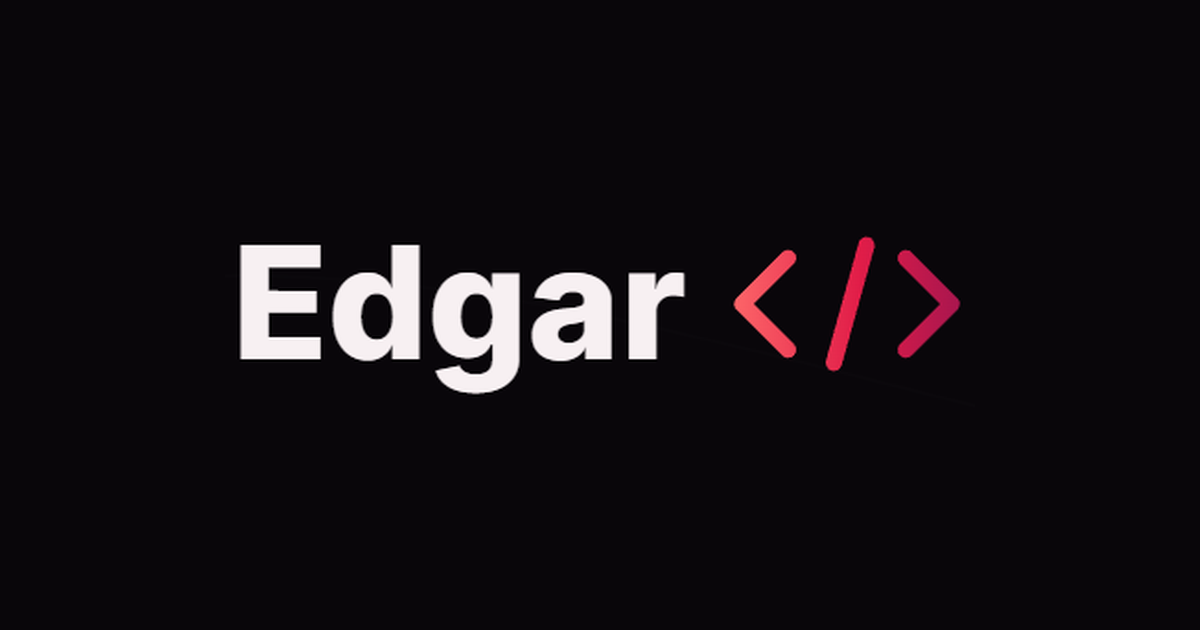
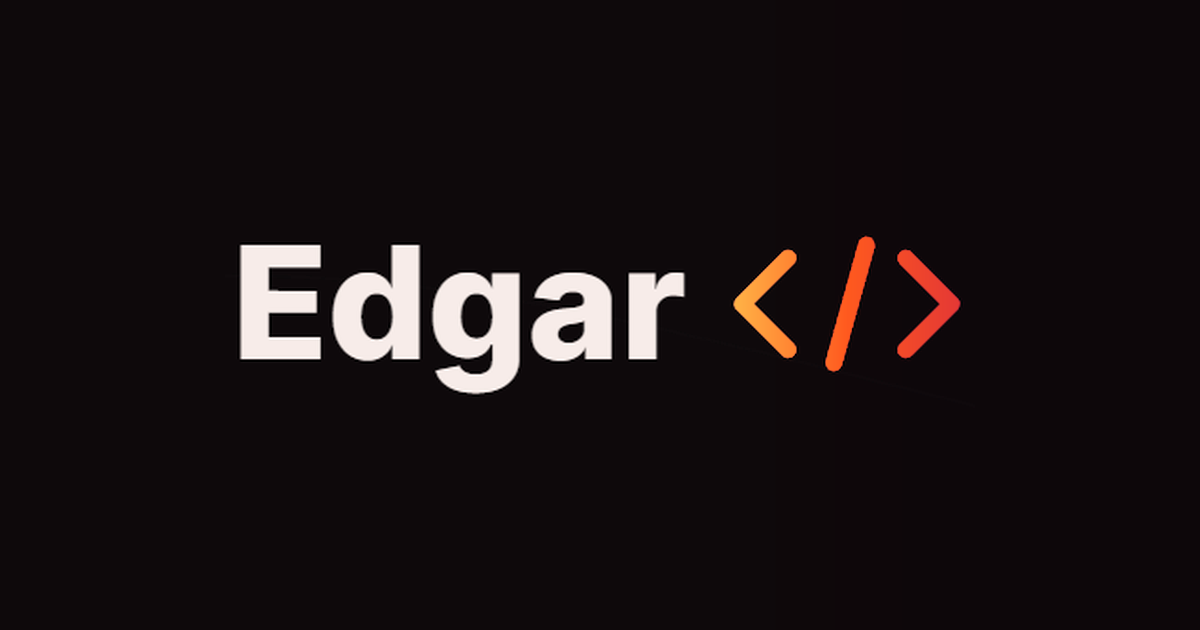
fix

Changed region(s): [[0.6167, 0.3619, 0.8017, 0.6032]]

diff --git a/components/Navbar.tsx b/components/Navbar.tsx
@@ -14,50 +14,54 @@ export default function Navbar() {
       <div className="wrap nav-wrap">
         <a href="/" onClick={closeMenu} className="logo-link">
           <span className="">Edgar</span>
-          <svg
-            className="logo-code"
-            width="38"
-            height="24"
-            viewBox="0 0 38 24"
-            fill="none"
-            xmlns="http://www.w3.org/2000/svg"
-            aria-hidden="true"
-          >
-            <defs>
-              <linearGradient
-                id="logoGradient"
-                x1="0"
-                y1="0"
-                x2="38"
-                y2="0"
-                gradientUnits="userSpaceOnUse"
-              >
-                <stop offset="0%" stopColor="#ff6b6b" />
-                <stop offset="55%" stopColor="#e11d48" />
-                <stop offset="100%" stopColor="#a3154f" />
-              </linearGradient>
-            </defs>
-            <path
-              d="M10 5L3 12L10 19"
-              stroke="url(#logoGradient)"
-              strokeWidth="2.5"
-              strokeLinecap="round"
-              strokeLinejoin="round"
-            />
-            <path
-              d="M22 3L17 21"
-              stroke="url(#logoGradient)"
-              strokeWidth="2.5"
-              strokeLinecap="round"
-            />
-            <path
-              d="M28 5L35 12L28 19"
-              stroke="url(#logoGradient)"
-              strokeWidth="2.5"
-              strokeLinecap="round"
-              strokeLinejoin="round"
-            />
-          </svg>
+         <svg
+  className="logo-code"
+  width="38"
+  height="24"
+  viewBox="0 0 38 24"
+  fill="none"
+  xmlns="http://www.w3.org/2000/svg"
+  aria-hidden="true"
+>
+  <defs>
+    <linearGradient
+      id="logoGradient"
+      x1="0"
+      y1="0"
+      x2="38"
+      y2="0"
+      gradientUnits="userSpaceOnUse"
+    >
+      <stop offset="0%" stopColor="#ffd166" />
+      <stop offset="35%" stopColor="#ff8c00" />
+      <stop offset="70%" stopColor="#ff3d00" />
+      <stop offset="100%" stopColor="#d62828" />
+    </linearGradient>
+  </defs>
+
+  <path
+    d="M10 5L3 12L10 19"
+    stroke="url(#logoGradient)"
+    strokeWidth="2.5"
+    strokeLinecap="round"
+    strokeLinejoin="round"
+  />
+
+  <path
+    d="M22 3L17 21"
+    stroke="url(#logoGradient)"
+    strokeWidth="2.5"
+    strokeLinecap="round"
+  />
+
+  <path
+    d="M28 5L35 12L28 19"
+    stroke="url(#logoGradient)"
+    strokeWidth="2.5"
+    strokeLinecap="round"
+    strokeLinejoin="round"
+  />
+</svg>
         </a>
 
         {/* Desktop navigation */}

diff --git a/styles/_variables.scss b/styles/_variables.scss
@@ -1,16 +1,24 @@
- 
-$bg: #09060a;
-$surface: #130c10;
-$surface2: #1b1116;
-$line: #2e1c23;
-$ink: #f7f0f2;
-$muted: #aa9ba2;
-$red: #ff4d5e;
-$crimson: #e11d48;
-$wine: #a3154f;
-$soft-ink: #d3c6cb;
-$dim: #7f7077;
-$grad: linear-gradient(90deg, #ff6b6b 0%, $crimson 55%, $wine 100%);
+$bg: #08090b;
+$surface: #111318;
+$surface2: #191c22;
+$line: #2b2f38;
+
+$ink: #f8f7f4;
+$muted: #aaa7a0;
+
+$red: #ff4b2b;
+$crimson: #ff3d00;
+$wine: #c62828;
+
+$soft-ink: #d6d3cc;
+$dim: #7d7b75;
+
+$grad: linear-gradient(
+  90deg,
+  #ffb347 0%,
+  #ff5a1f 50%,
+  #e53935 100%
+);
 
 $bp-sm: 640px;
 $bp-md: 760px;
